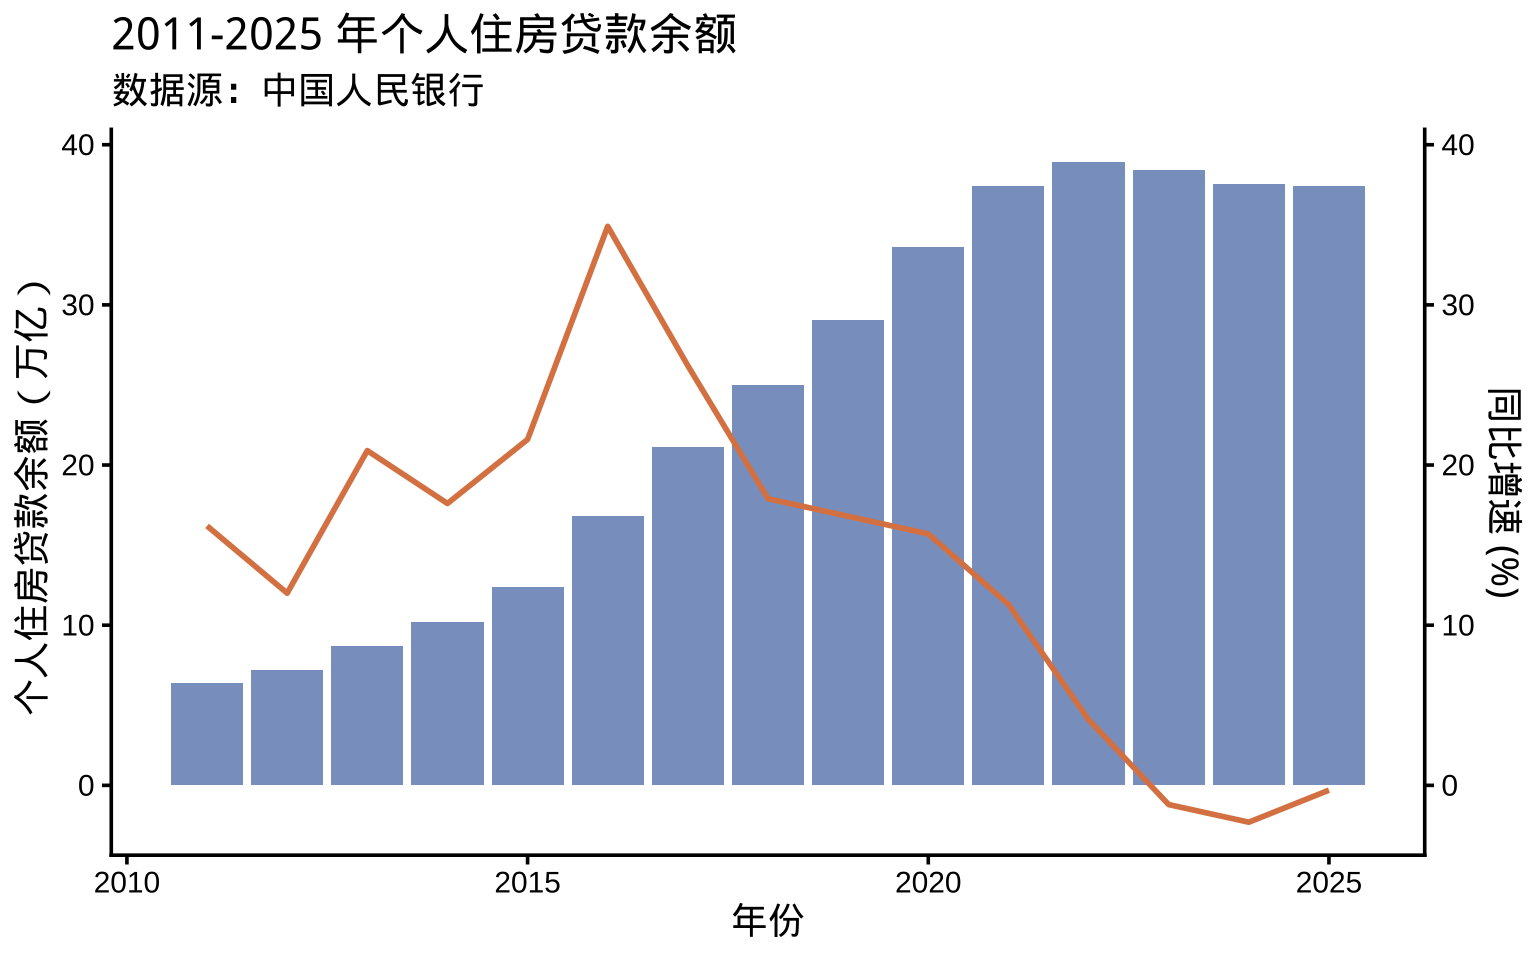
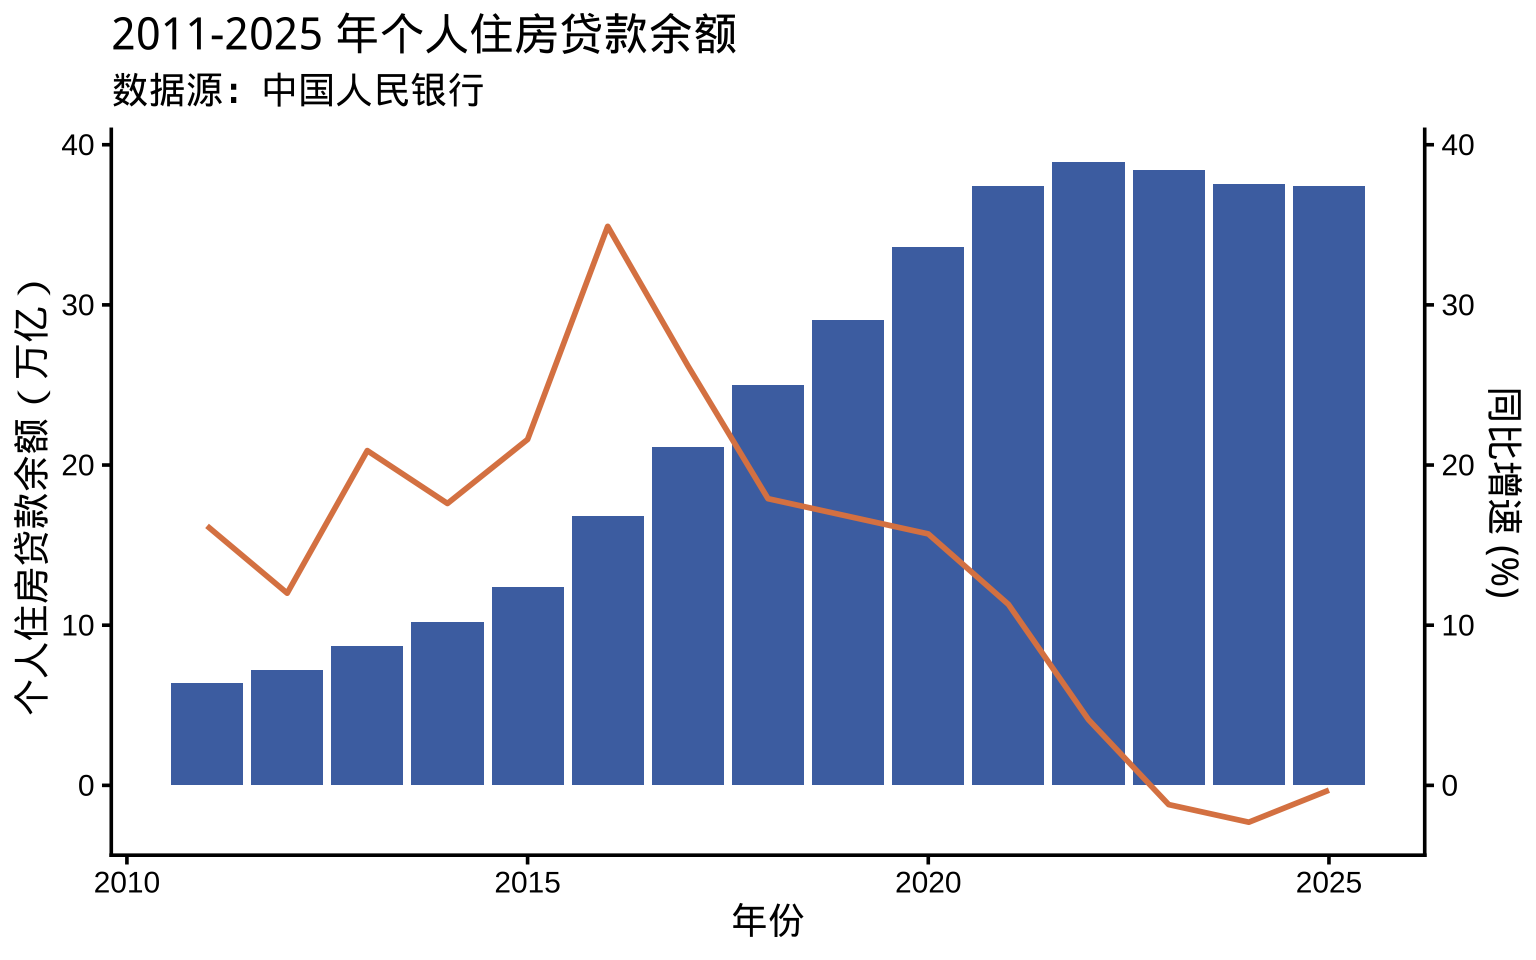
done

Changed region(s): [[0.0938, 0.1562, 0.9062, 0.8438]]

diff --git a/content/post/2026-04-07-double-axis/index.html b/content/post/2026-04-07-double-axis/index.html
@@ -15,8 +15,6 @@ output:
 description: "2011-2025 年个人住房贷款余额变化趋势，包括绝对量及其增速的走势。"
 ---
 
-<script src="https://unpkg.com/@antv/g2@5/dist/g2.min.js" defer></script>
-<script src="https://cdn.jsdelivr.net/npm/@xiee/utils@v1.14.31/js/g2-patches.min.js" defer></script>
 
 
 <p>注：本文的绘图代码借助 AI 转化和生成。读取数据的代码由 R 语言版转为 Python 版，绘图代码由 AI 生成，再手动调整。</p>
@@ -118,12 +116,14 @@ plt.show()</code></pre>
 &quot;, header = T, sep = &quot;\t&quot;)</code></pre>
 <p>以上数据是我手动从 PDF 报告和 HTML 网页中复制粘贴到 Excel 表格，再从表格复制粘贴到本文档的。</p>
 <pre class="r"><code>library(gglite)
-g2(house_loan, x = &quot;年份&quot;, y = &quot;个人住房&quot;) |&gt; 
+g2(house_loan, x = ~年份, y = ~个人住房, color = &#39;#4C72B0&#39;) |&gt; 
   mark_interval() |&gt; 
   axis_y(title = &quot;个人住房贷款余额（万亿）&quot;) |&gt; 
-  title_(text = &quot;2011-2025 年个人住房贷款余额&quot;,
+  header(title = &quot;2011-2025 年个人住房贷款余额&quot;,
          subtitle = &#39;数据源：中国人民银行&#39;) |&gt;
-  theme_academy()</code></pre>
+  theme_classic()</code></pre>
+<script src="https://unpkg.com/@antv/g2@5/dist/g2.min.js" defer></script>
+<script src="https://cdn.jsdelivr.net/npm/@xiee/utils@v1.14.34/js/g2-patches.min.js" defer></script>
 <div data-gglite-container="">
 
 </div>
@@ -140,9 +140,7 @@ chart.options({
     "type": "column",
     "value": {
       "年份": [2011, 2012, 2013, 2014, 2015, 2016, 2017, 2018, 2019, 2020, 2021, 2022, 2023, 2024, 2025],
-      "季度": ["Q3", "Q3", "Q3", "Q3", "Q3", "Q3", "Q3", "Q3", "Q3", "Q3", "Q3", "Q3", "Q3", "Q3", "Q3"],
-      "个人住房": [6.4, 7.2, 8.7, 10.2, 12.4, 16.8, 21.1, 24.97, 29.05, 33.59, 37.4, 38.9, 38.4, 37.56, 37.44],
-      "同比增速": [16.2, 12, 20.9, 17.6, 21.6, 34.9, 26.2, 17.9, 16.8, 15.7, 11.3, 4.1, -1.2, -2.3, -0.3]
+      "个人住房": [6.4, 7.2, 8.7, 10.2, 12.4, 16.8, 21.1, 24.97, 29.05, 33.59, 37.4, 38.9, 38.4, 37.56, 37.44]
     }
   },
   "children": [
@@ -150,30 +148,31 @@ chart.options({
       "type": "interval",
       "encode": {
         "x": "年份",
-        "y": "个人住房"
+        "y": "个人住房",
+        "color": "#4C72B0"
+      },
+      "axis": {
+        "y": {
+          "title": "个人住房贷款余额（万亿）"
+        }
       }
     }
   ],
-  "axis": {
-    "y": {
-      "title": "个人住房贷款余额（万亿）"
-    }
-  },
   "title": {
     "title": "2011-2025 年个人住房贷款余额",
     "subtitle": "数据源：中国人民银行"
   },
   "theme": {
-    "type": "academy"
+    "type": "classic"
   }
 });
 chart.render();
 </script>
-<pre class="r"><code>g2(house_loan, x = &quot;年份&quot;, y = &quot;同比增速&quot;, color = &#39;#DD8452&#39;) |&gt; 
+<pre class="r"><code>g2(house_loan, x = ~年份, y = ~同比增速, color = &#39;#DD8452&#39;) |&gt; 
   mark_line() |&gt; 
   style_mark(lineWidth = 2) |&gt;
   axis_y(position = &quot;right&quot;, title = &quot;同比增速（单位：%）&quot;) |&gt;
-  theme_academy()</code></pre>
+  theme_classic()</code></pre>
 <div data-gglite-container="">
 
 </div>
@@ -190,8 +189,6 @@ chart.options({
     "type": "column",
     "value": {
       "年份": [2011, 2012, 2013, 2014, 2015, 2016, 2017, 2018, 2019, 2020, 2021, 2022, 2023, 2024, 2025],
-      "季度": ["Q3", "Q3", "Q3", "Q3", "Q3", "Q3", "Q3", "Q3", "Q3", "Q3", "Q3", "Q3", "Q3", "Q3", "Q3"],
-      "个人住房": [6.4, 7.2, 8.7, 10.2, 12.4, 16.8, 21.1, 24.97, 29.05, 33.59, 37.4, 38.9, 38.4, 37.56, 37.44],
       "同比增速": [16.2, 12, 20.9, 17.6, 21.6, 34.9, 26.2, 17.9, 16.8, 15.7, 11.3, 4.1, -1.2, -2.3, -0.3]
     }
   },
@@ -205,17 +202,17 @@ chart.options({
       },
       "style": {
         "lineWidth": 2
+      },
+      "axis": {
+        "y": {
+          "position": "right",
+          "title": "同比增速（单位：%）"
+        }
       }
     }
   ],
-  "axis": {
-    "y": {
-      "position": "right",
-      "title": "同比增速（单位：%）"
-    }
-  },
   "theme": {
-    "type": "academy"
+    "type": "classic"
   }
 });
 chart.render();
@@ -230,9 +227,10 @@ g2(house_loan, x = &#39;年份&#39;) |&gt;
   mark_line(encode = list(color = &#39;#DD8452&#39;, y = &#39;同比增速&#39;)) |&gt;  # 线图
   style_mark(lineWidth = 2) |&gt; 
   axis_y(position = &#39;right&#39;, title = &#39;同比增速 (%)&#39;) |&gt;  # 右轴标题
-  title_(text = &quot;2011-2025 年个人住房贷款余额&quot;,
+  mark_point(encode = list(color = &#39;#DD8452&#39;, y = &#39;同比增速&#39;)) |&gt; 
+  header(title = &quot;2011-2025 年个人住房贷款余额&quot;,
          subtitle = &#39;数据源：中国人民银行&#39;) |&gt;
-  theme_academy()</code></pre>
+  theme_classic()</code></pre>
 <div data-gglite-container="">
 
 </div>
@@ -249,7 +247,6 @@ chart.options({
     "type": "column",
     "value": {
       "年份": [2011, 2012, 2013, 2014, 2015, 2016, 2017, 2018, 2019, 2020, 2021, 2022, 2023, 2024, 2025],
-      "季度": ["Q3", "Q3", "Q3", "Q3", "Q3", "Q3", "Q3", "Q3", "Q3", "Q3", "Q3", "Q3", "Q3", "Q3", "Q3"],
       "个人住房": [6.4, 7.2, 8.7, 10.2, 12.4, 16.8, 21.1, 24.97, 29.05, 33.59, 37.4, 38.9, 38.4, 37.56, 37.44],
       "同比增速": [16.2, 12, 20.9, 17.6, 21.6, 34.9, 26.2, 17.9, 16.8, 15.7, 11.3, 4.1, -1.2, -2.3, -0.3]
     }
@@ -261,6 +258,17 @@ chart.options({
         "x": "年份",
         "color": "#4C72B0",
         "y": "个人住房"
+      },
+      "axis": {
+        "y": {
+          "position": "left",
+          "title": "个人住房贷款余额（万亿）"
+        }
+      },
+      "scale": {
+        "y": {
+          "independent": true
+        }
       }
     },
     {
@@ -279,25 +287,25 @@ chart.options({
           "title": "同比增速 (%)"
         }
       }
+    },
+    {
+      "type": "point",
+      "encode": {
+        "x": "年份",
+        "color": "#DD8452",
+        "y": "同比增速"
+      },
+      "style": {
+        "shape": "point"
+      }
     }
   ],
-  "scale": {
-    "y": {
-      "independent": true
-    }
-  },
-  "axis": {
-    "y": {
-      "position": "left",
-      "title": "个人住房贷款余额（万亿）"
-    }
-  },
   "title": {
     "title": "2011-2025 年个人住房贷款余额",
     "subtitle": "数据源：中国人民银行"
   },
   "theme": {
-    "type": "academy"
+    "type": "classic"
   }
 });
 chart.render();
@@ -313,7 +321,7 @@ chart.render();
 <pre class="r"><code>showtext::showtext_auto()
 # 双轴图：左轴柱状图（个人住房），右轴线图（同比增速）
 ggplot(house_loan, aes(x = 年份)) +
-  geom_bar(aes(y = 个人住房), stat = &quot;identity&quot;, fill = &quot;#4C72B0&quot;, alpha = 0.7) +
+  geom_bar(aes(y = 个人住房), stat = &quot;identity&quot;, fill = &quot;#4C72B0&quot;) +
   geom_line(aes(y = 同比增速), color = &quot;#DD8452&quot;, linewidth = 1) +
   scale_y_continuous(
     name = &quot;个人住房贷款余额（万亿）&quot;,
